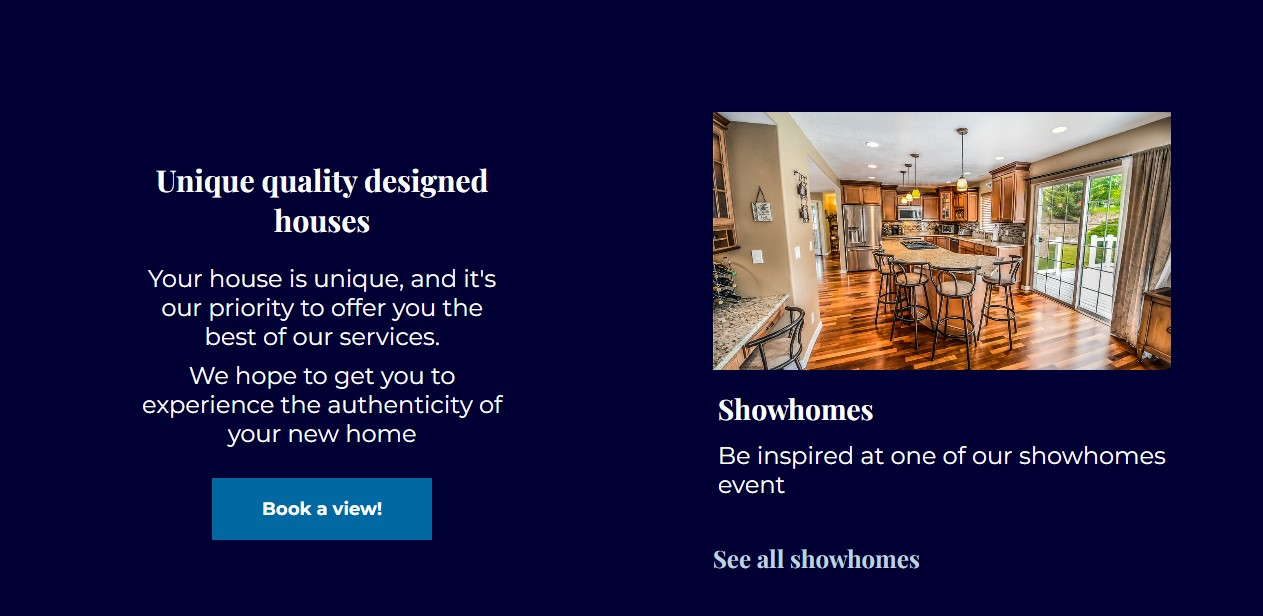
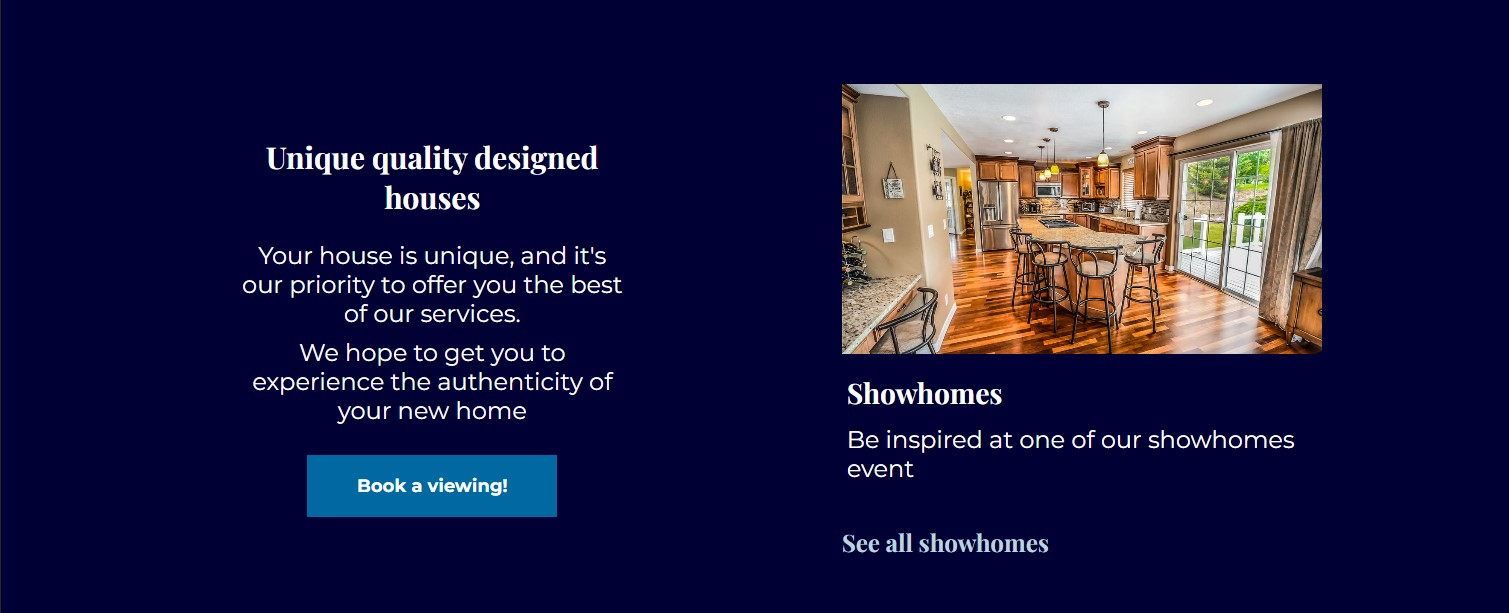
README - improved the readability of the document. Added the results from the validator tests on all three pages. Adjusted Credits - content section.

Changed region(s): [[0.5558, 0.124, 0.9264, 0.8059], [0.0926, 0.217, 0.4323, 0.8989], [0.5558, 0.8679, 0.7411, 0.9299]]

diff --git a/index.html b/index.html
@@ -36,7 +36,7 @@
         <section id="intro">
             <div id="welcome-text">
                 <h2>Designed For You</h2>
-                <p>Single-Family Homes, Tiny Homes and Ranch Style & more</p>
+                <p>Single-Family Homes, Tiny Homes, Ranch Style & more</p>
                 <a class="button" href="catalogue.html">See Our Catalogue!</a>
             </div>
         </section>
@@ -83,7 +83,7 @@
                     <h3>Unique quality designed houses</h3>
                     <p>Your house is unique, and it's our priority to offer you the best of our services.</p>
                     <p>We hope to get you to experience the authenticity of your new home</p>
-                    <a class="button" href="contact.html">Book a view!</a>
+                    <a class="button" href="contact.html">Book a viewing!</a>
                 </div>
             </div>
         </section>

diff --git a/assets/css/responsive.css b/assets/css/responsive.css
@@ -135,7 +135,7 @@ text-align: right;
     margin-top:4rem;
 }
 
-/*FROM 1024px SMALL DESKTOP(LAPTOP) ONWARDS*/
+/*FROM 1024px SMALL DESKTOP(LAPTOP) UPWARDS*/
 @media screen and (min-width: 1024px) {
     /*LANDING PAGE*/
     header {
@@ -198,7 +198,7 @@ text-align: right;
     }
 }
 
-/*FROM LARGE DESKTOP ONWARDS*/
+/*FROM LARGE DESKTOP UPWARDS*/
 @media screen and (min-width: 1440px) {
     /*LANDING PAGE*/
     #features, #our-offer {
@@ -217,7 +217,7 @@ text-align: right;
 
 }
 
-/*FROM XL DESKTOP ONWARDS*/
+/*FROM XL DESKTOP UPWARDS*/
 @media screen and (min-width: 1800px) {
     /*LANDING PAGE*/
     header {

diff --git a/assets/css/style.css b/assets/css/style.css
@@ -214,7 +214,7 @@ menu > li {
 
 /*FOOTER SECTION GENERAL STYLE*/
 footer {
-    margin-top: 2rem;
+    margin-top: 5rem;
     text-align: center;
     margin-bottom: 1rem;
 }
@@ -266,7 +266,7 @@ footer p {
     gap: 0.75rem;
 }
 
-.price{
+.price {
     font-size: 1.25rem;
     color:#BCD3DE;
     text-align: right;
@@ -335,11 +335,7 @@ footer p {
     width: 100%;
 }
 
-#contact-page-footer {
-    margin-top: 5rem;
-}
-
-/*FROM MOBILE L ONWARDS - IMAGES FIX*/
+/*FROM MOBILE L UPWARDS - IMAGES FIX*/
 @media screen and (min-width: 425px) {
     /*LANDING PAGE*/
     .feature-items, .info-offer {

diff --git a/README.md b/README.md
@@ -2,8 +2,8 @@
 
 The BC Real Estate website is a landing page for an imaginary real estate company.
 The user can explore all the different sections of the landing page, and not only.
-The website is composed of three separate pages all displayed in the navigation bar of the landing page. 
-Each page presents different feature as well as different functionalities that will enhance the overall experience of the website.
+The website is composed of three separate pages all displayed in the navigation bar of the landing page.
+Each page presents different features as well as different functionalities that will enhance the overall experience of the website.
 
 ![Responsive Mockup](docs/responsive_mockup.jpeg)
 ## Features
@@ -15,22 +15,27 @@ In general terms, the features of this website serve two main purposes: to invit
 __Navigation Bar__
 
 - The fully responsive navigation bar is included on all three pages. The navigation bar is kept both in style and functionality the same.
-- The navigation bar is fixed to the top of the page from 768px onwards. From small screen (320px) the navigation bar is presented as a list menu.
-
+- The navigation bar is fixed to the top of the page from 768px upwards. From a small screen (320px) the navigation bar is presented as a list menu.
+- It presents three clickable options: "**_Home_**", "**_Our catalogue_**", and "**_Contact Us_**".  
 ![NavBar](docs/nav_bar_mockup.jpeg)
 ![NavBar small device](docs/responsive_nav_bar_mockup.jpeg)
 
 
-__The landing page__
+__The Landing page__
 
-- The landing includes a photograph as a background image and a box with a clickable option that redirects the user to the catalogue.
+- The landing includes a photograph as a background image and a semi-transparent box with a clickable option that redirects the user to the catalogue page
+ by clicking the "**_See Our Catalogue!_**" button.
+
 ![Landing page](docs/landing_page_mockup.jpeg)
 
 
 __Features section__
 
-- The three features present a clickable options: Browse the catalogue, View Locations and See all showhomes.
-- The last feature presents a call to action to invite people to book a view with the company. The clickable button will redirect the user to the contact page.
+- The features on the page present three clickable options: "**_Browse the catalogue_**", "**_View Locations_**", and "**_See all showhomes_**".
+- The "**_Browse the catalogue_**", will redirect the user to the catalogue page.
+- The "**_View Locations_**", will redirect the user to the map section, presents on the landing page.
+- The "**_See all showhomes_**", will redirect the user to the contact page, where the user can send the company a specific request.
+- The last feature presents a call to action **_"Book a viewing!"_** to invite people to book a viewing with the company. The clickable button will redirect the user also to the contact page.
 
 ![Feature section](docs/feature_mockup.jpeg)
 ![Feature section](docs/feature_mockup2.jpeg)
@@ -38,40 +43,48 @@ __Features section__
 
 __Help section__
 
-This section is thought to be presented as extra services that can be offered to the customers. 
-The aim of the section is to provide extra guidance and to build a sense of trust in the user.
+This section is thought to be presented as extra services that can be offered to the customers.
+The section aims to provide extra guidance and build a sense of trust in the user.
+
 ![Feature section](docs/offering_mockup.jpeg)
 
 
 
 __Map section__
 
-Extra feature to add visibility for the company's imaginary location.
+The map is another extra feature to add visibility to the company's imaginary location.
+The map can be zoomed in and out. The location is chosen randomly, and therefore no real references are applied
+as the company does not exist.
+
 ![Map section](docs/map_location.jpeg)
 
 
 __Footer section__
 
-In the footer section I've included several links to four prominent social media sites for BC Real Estate.
-All links open to new tabs when clicked.
+In the footer section, I've included several links to four prominent social media sites for BC Real Estate.
+All links when clicked, open to new tabs when clicked.
 
 ![Footer section](docs/social_mockup.jpeg)
 
 ---
 
-__Catalogue__
+__Our Catalogue page__
 
 - The Catalogue page displays all the available houses in a grid form fully responsive for all screen sizes.
-- This page will give the users a little insight regarding what the agency can offer, therefore no clickable options on this page are available, except the navigation bar and the footer.
+- This page will give the users a little insight into what the company has to offer, therefore no clickable options are available on this page, except for the navigation bar and the footer.
+- The navigation bar and the footer, follow the same style and functionalities as the home page.
+
 ![Catalogue page](docs/catalogue_mockup.jpeg)
 
 
 ---
-__Contact Page__
+__Contact Us page__
 
-- The signup form includes four mandatory fields with a submit button at the end of the form. 
-- The final text box is for the user to write a special request if needed. Upon submission, a congratulatory message appears, 
+- The fields: "**_First Name_**", "**_Last Name_**", and "**_Email Address_**" are all mandatory fields, and therefore they cannot be left blank.
+  Only the "**_Tell us your request_**" text box at the bottom of the form can be blank. It is designed to give the user the possibility to write a request if needed only.
+- Upon submission by clicking on the "**_Submit_**" button, a congratulatory message appears, 
 letting the user know they have submitted the form successfully. The form URL was taken from the Code Institute Love Running project and aesthetically and informationally adapted for this website.
+
 ![Contact Page](docs/contact_mockup.jpeg)
 
 ---
@@ -81,7 +94,11 @@ letting the user know they have submitted the form successfully. The form URL wa
 - The social media links in the footer were tested and work correctly. All open in new tabs.
 - The signup form was tested and, when filled out and submitted correctly, returns a congratulatory message noting that completion was successful.
 ![FormSubmit](docs/test_form_mockup.png)
-- To complete my testing phase, I ran each page through Lighthouse in Chrome DevTools, both desktop and mobile versions. The results are below:
+
+
+- To complete my testing phase, I ran each page through Lighthouse in Chrome DevTools, both desktop, and mobile versions.
+- Due to some Google Chrome extensions, the tests were performed in Incognito Mode.
+The results are below:
 
 Homepage (desktop and mobile)
 ![Lighthouse](docs/lighthouse_index.jpeg)
@@ -95,44 +112,95 @@ Contact page (desktop and mobile)
 ---
 ### Validator Testing
 
-HTML
-- No errors were found when the code was passed through the official [W3C validator](https://validator.w3.org/nu/?doc=https%3A%2F%2Fsebhd1.github.io%2Fbc-real-estate%2F). This was tested and is true for all three pages of the website.
+#### HTML - test landing page 
+- No errors were found when the code was passed through the official [W3C validator](https://validator.w3.org/). This was tested individually on each page.
 
-![ValidatorHTML](docs/html_no_errors.jpg)
-
-
-
-CSS
-- No errors were found when passing through the official [(Jigsaw) validator](https://jigsaw.w3.org/css-validator/validator?uri=https%3A%2F%2Fsebhd1.github.io%2Fbc-real-estate%2F&profile=css3svg&usermedium=all&warning=1&vextwarning=&lang=it)
-
-![ValidatorCSS](docs/css_no_errors.jpeg)
+![ValidatorHTML](docs/html_landing_page_test.jpg)
 
 ---
+
+#### HTML - test catalogue page
+- No errors were found when the code was passed through the official [W3C validator](https://validator.w3.org/). This was tested individually on each page.
+
+![ValidatorHTML](docs/html_catalogue_page_test.jpg)
+
+---
+
+#### HTML - test contact page
+- No errors were found when the code was passed through the official [W3C validator](https://validator.w3.org/). This was tested individually on each page.
+
+![ValidatorHTML](docs/html_contact_page_test.jpg)
+
+---
+
+
+
+#### CSS - style.css - mobile first approach to mobile large 
+- I personally divided the CSS into two separated style sheets as I used the initial sheet for the mobile design mainly and the second one for the responsive.
+- No errors were found when passing through the official [(Jigsaw) validator](https://jigsaw.w3.org/css-validator/)
+
+![ValidatorCSS](docs/css_mobile.jpg)
+
+---
+
+#### CSS - responsive.css responsive style from tablet to large desktop 
+
+- No errors were found when passing through the official [(Jigsaw) validator](https://jigsaw.w3.org/css-validator/)
+
+![ValidatorCSS](docs/css_responsive.jpg)
+
+---
+
 ## Deployment
 
 I deployed this website to GitHub pages on the GitHub hosting platform following the steps below:
 
-
-- Once in my personal GitHub repository for this project, I clicked the Settings cog button.
-- From there I clicked 'Pages' from the left side menu.
-- Next under 'Source' I selected the main branch,  refreshed the page and a link to the live site was provided, indicating successful deployment.
+- Once in my personal GitHub repository for this project, I clicked the Settings cog button. From there I clicked "**Pages**" from the left side menu.
+- Next under "**_Source_**" I selected the main branch,  refreshed the page and a link to the live site was provided, indicating successful deployment.
 
 ![Deployment](docs/github_pages_mockup.jpeg)
 
-
 The live link can be found here - https://sebhd1.github.io/bc-real-estate/
+
+### To Fork the Repository
+
+To make a copy or ‘fork’ the repository 
+
+- Log into GitHub and locate repository
+- On the right hand side of the page select the ‘fork’ option to create and copy of the original
+
+![Forking Process Image](docs/readme-fork-image.jpg)
+
+### To create a Local Clone
+
+1. under the repository name, click on the ‘code’ tab
+2. in the clone box, HTTPS tab, click on the clipboard icon
+3. in your IDE open GitBash
+4. Changed the current working directory to the location you want the cloned directory to be made
+5. Type ‘git clone’ and then paste the URL copied from GitHub
+6. press enter and the local clone will be created
+
+![Clonging Process image](docs/readme-clone-image.jpg)
+
+---
 
 ## Credits
 
----
 ### Content
 
-
 - The social media icons found in the footer were taken from [Font Awesome](https://fontawesome.com/)
-- I used Stack Overflow for general troubleshooting.
+- I used Stack Overflow for general troubleshooting and some responsive issues.
 - The congratulatory pop-up that appears on the Get Involved page after filling out the form is also a product of Code Institute and was used solely to ensure the form worked correctly.
+- The Layout inspiration for the landing page and the colors pattern were taken from [Design Builders](https://www.designbuilders.co.nz/), a huge thanks is a must.
+
+Here a screenshot of their old website style:
+
+![https://www.designbuilders.co.nz/](docs/inspiration.jpeg)
 
 ### Media
+- The photos used on this website are from all [Pexel.com](https://www.pexels.com/it-it/).
 
-- The photos used on this website are from [Pexel.com](https://www.pexels.com/it-it/).
-  
+### Acknowledgements
+This website was executed and completed as a portfolio 1 Project for the full stack diploma at [Code Institute](https://codeinstitute.net/).
+
+Sebastiano Ballotta, 2022.
